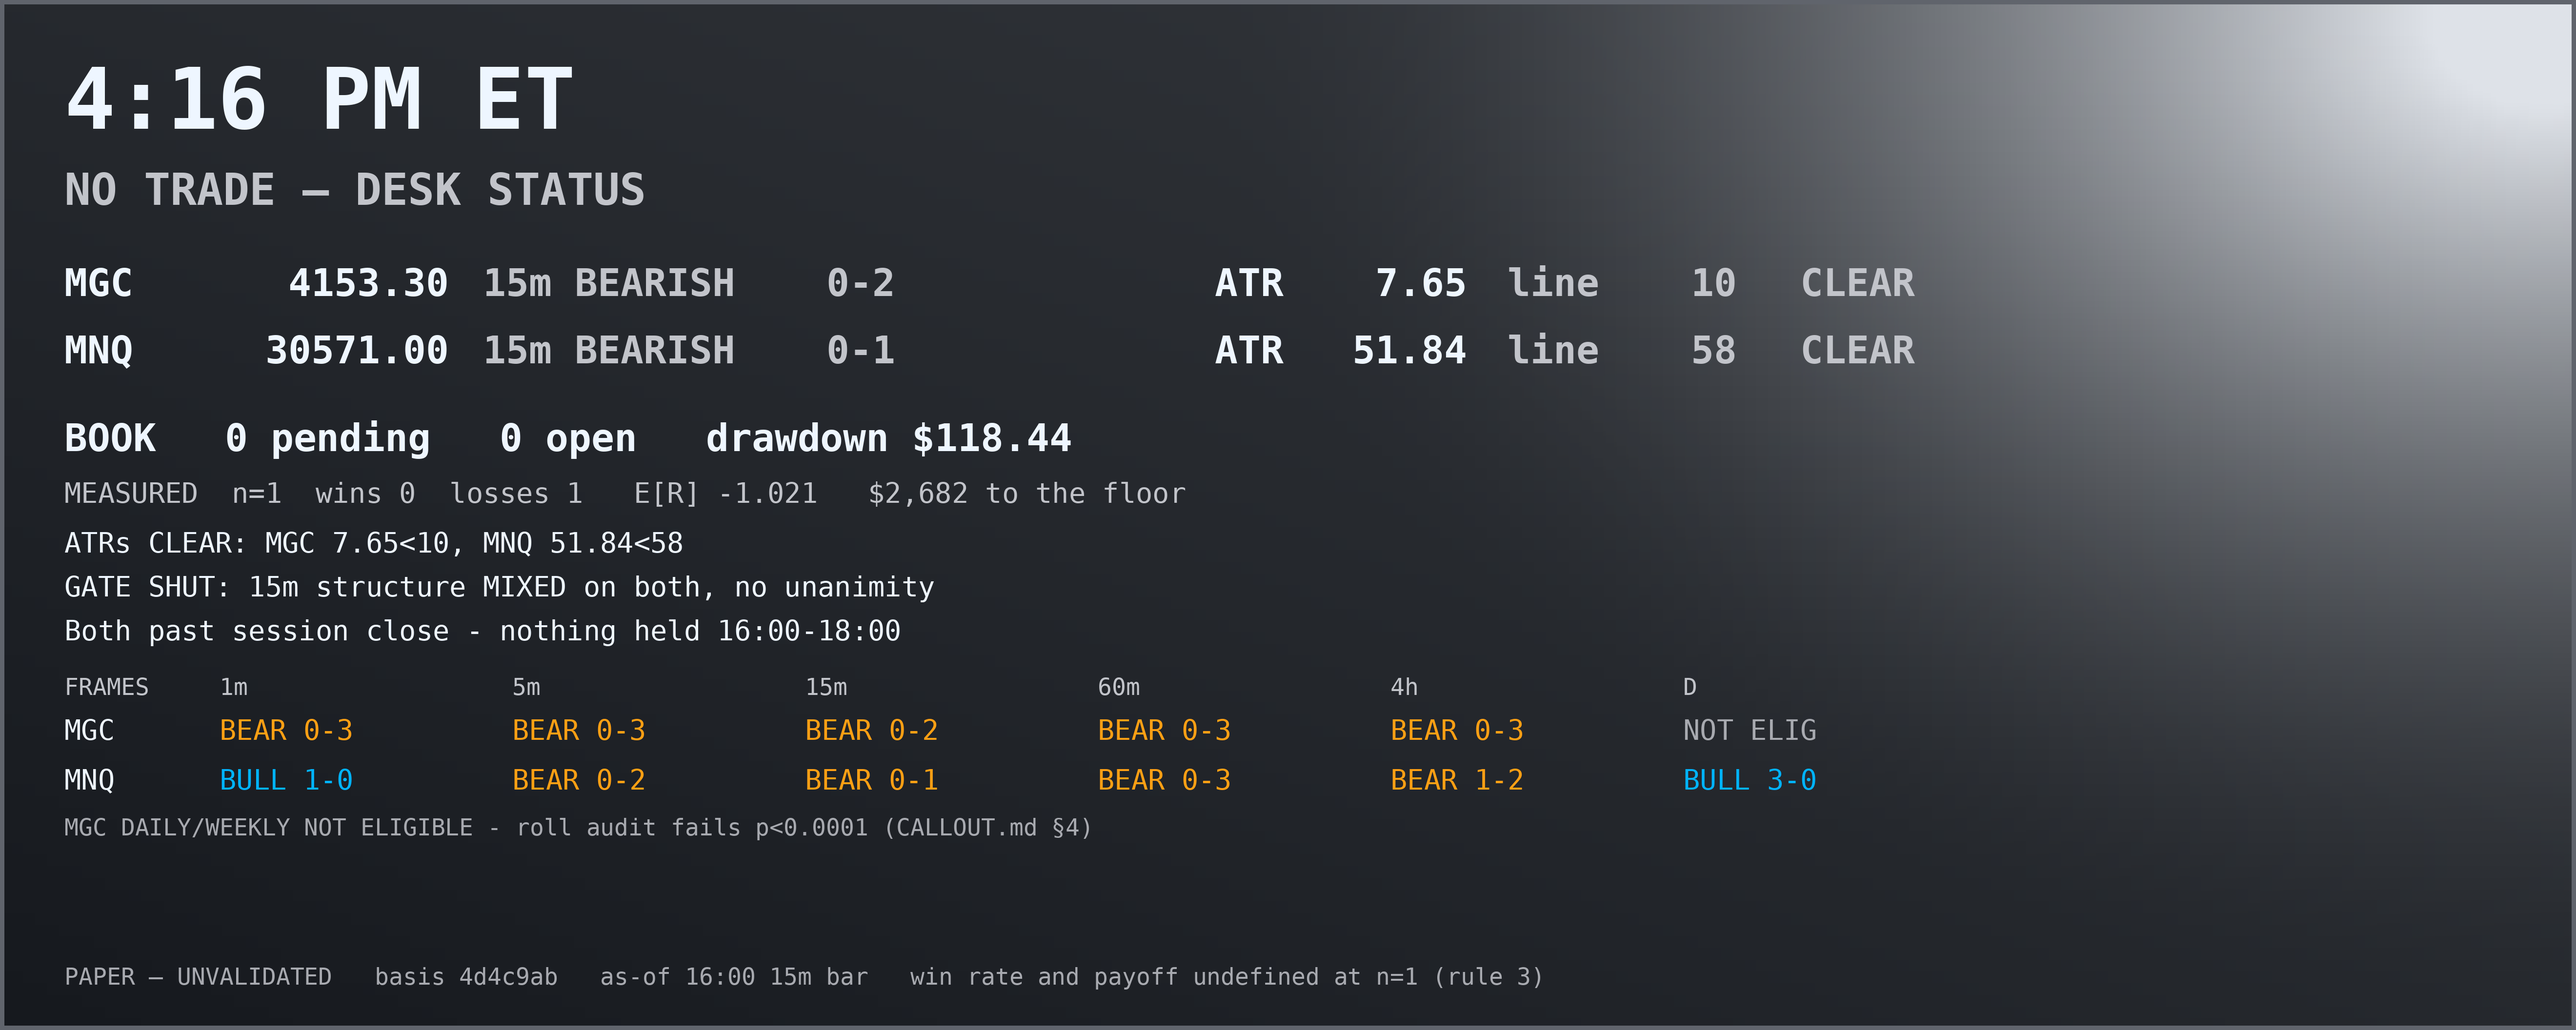
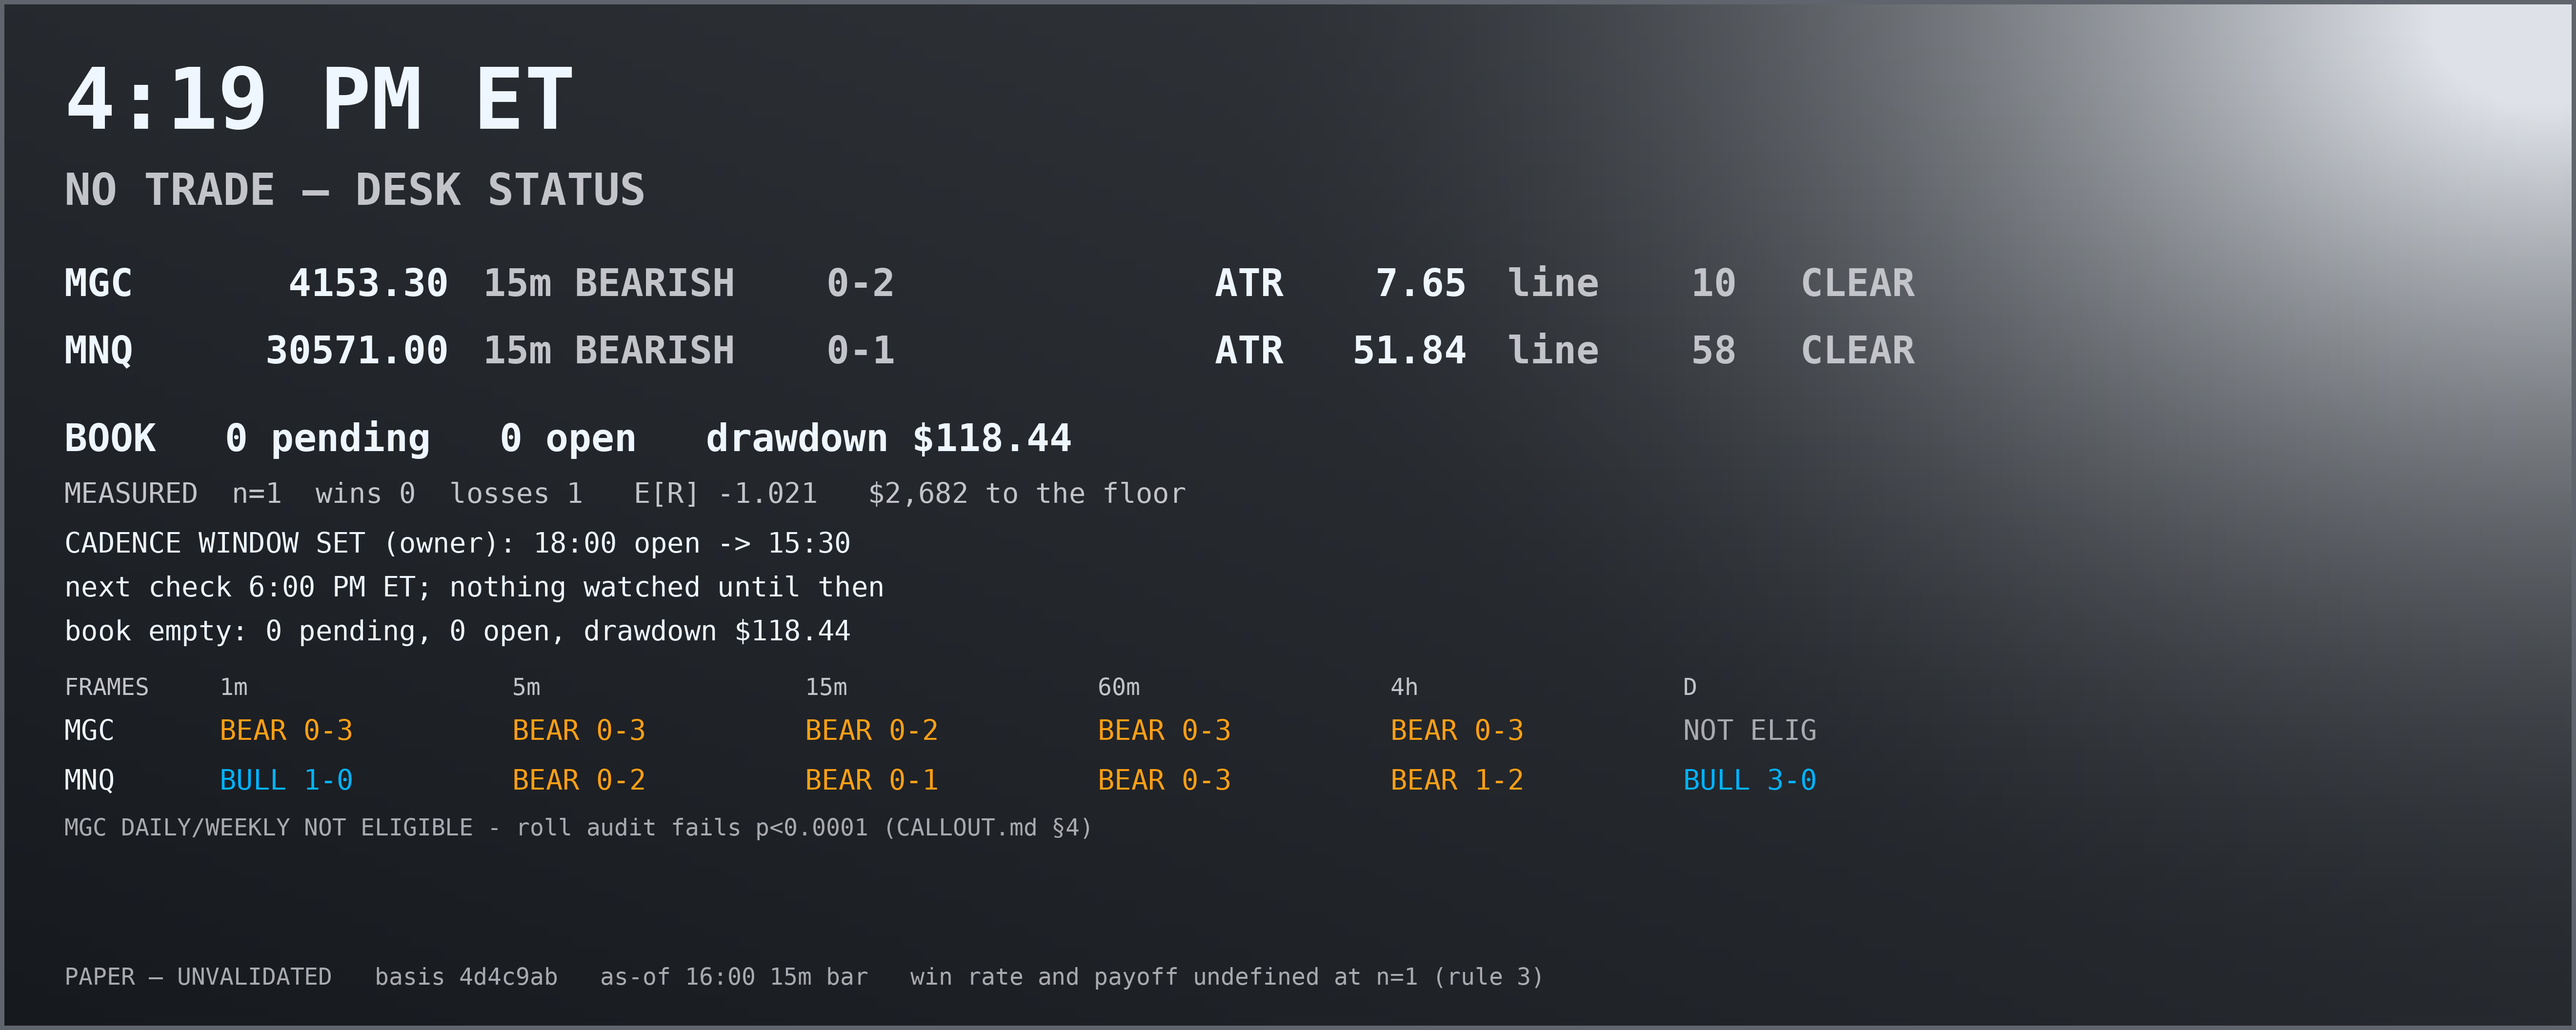
CALL desk: cadence given a window at the owner's instruction - every 2 min only from the 18:00 open to 15:30; three windowed cron jobs replace the all-day one, hourly backstop now checks the clock before running
Claude-Session: https://claude.ai/code/session_01EE6PFk7fGa2tM4KP6dpfWD

Changed region(s): [[0.0312, 0.5, 0.3438, 0.625], [0.0938, 0.0625, 0.125, 0.0938], [0.0625, 0.0938, 0.0938, 0.125]]

diff --git a/workspace/paper/CALL/CHECK_PROCEDURE.md b/workspace/paper/CALL/CHECK_PROCEDURE.md
@@ -881,3 +881,48 @@ not something added afterwards if there is time.
 
 **On the card.** When a stand-down is binding, the card carries what it has foreclosed so far.
 The owner should be able to see the price of the desk's caution without asking for it.
+
+---
+
+## THE CADENCE HAS A WINDOW. IT IS NOT ALL DAY.
+
+**Set by the account owner 2026-09-28 at 16:16 ET:** *"Lets do this you are only to run every 2
+minutes of when the futures opens to 30 minutes before close."*
+
+**The window is 18:00 ET → 15:30 ET.** The futures open is 18:00 ET (CALLOUT.md's session rule:
+18:00 → 16:00, nothing held across 16:00–18:00). Thirty minutes before the close is **15:30**.
+Outside that window the desk does not check.
+
+Three session cron jobs carry it, and together they are the whole cadence:
+
+| job | cron | covers |
+|---|---|---|
+| `4d5d148b` | `*/2 18-23 * * 0-4` | Sunday–Thursday evening, from the 18:00 open to midnight |
+| `94de14ed` | `*/2 0-14 * * 1-5` | Monday–Friday overnight and day, midnight to 14:58 |
+| `af67dea9` | `0-28/2 15 * * 1-5` | Monday–Friday 15:00–15:28, the last window of the day |
+
+Nothing fires between **15:30 and 18:00**, and nothing fires from Friday 15:30 to Sunday 18:00.
+
+**Why the day splits into three jobs and not one.** A single `*/2 * * * *` cannot express a window
+that wraps past midnight, and the owner's window does — it opens at 18:00 and closes at 15:30 the
+*next* day. The three jobs are one mechanism in three pieces, not three mechanisms; they never
+overlap, so they cannot double-send (N42/N45). Verify all three at every hourly.
+
+**The last firing of the day is 15:28**, and it is not an ordinary check. It says in one line that
+the cadence now stops until 18:00, states the closing book, and sends its card. Falling silent at
+15:30 without saying the window has closed would read exactly like the cron dying — which has
+already happened once today, at ~12:55, and cost 44 minutes.
+
+**A PENDING plan alive at 15:30 is unwatched until 18:00.** Say so on that last card. The desk
+cannot see a trigger, a fill or a stop during the gap, and `resolve.py` will only learn what
+happened when the cadence resumes.
+
+**Rule 5 covers most of the final window.** No intraday entry 15:00–16:00 (z −4.43, median
+−0.617R, replicated), so the 15:00–15:28 job will almost always be reporting status rather than
+calling. That is expected and is not a reason to skip it — the owner reads cards, and an empty
+book is a decision that still has to reach him.
+
+**The hourly backstop now checks the clock first.** Outside the window it does not run a full
+check and does not send a card: it lists the cron jobs, repairs any that died, and reports in one
+or two lines. The repair mechanism has to keep running even when the desk does not, because the
+jobs are session-only and die with the worker.

diff --git a/workspace/paper/CALL/DECISIONS.md b/workspace/paper/CALL/DECISIONS.md
@@ -56,6 +56,7 @@ the second is how a veto flatters itself and quoting only the first is how a tra
 | 14 | 15:17 | **Stand-down held on both symbols** — MGC ATR14 10.44 > 10, MNQ 68.98 > 58; rule 5 also binds to 16:00 | foreclosed since 13:00 ≤ **MGC $181 (1.51R) / MNQ $186 (1.55R)** — full favourable excursion, not a profit I would have taken | **$0 marginal** — no unanimous 15m bar printed since 13:00, so no setup I would have entered was refused | — |
 | 15 | 15:52 | **Held the stand-down through the whole 15:00-16:00 window** — rule 5 plus MGC ATR 10.17>10 and MNQ 69.77>58, across 30 consecutive 2-min checks | foreclosed ≤ **MGC $110 (0.92R) / MNQ $196 (1.63R)** on the short side; both symbols fell all hour and I took none of it | **$0 marginal** — structure stayed MIXED on both 15m frames for the entire window, so the gate never opened and the vetoes refused nothing the desk would have taken | — |
 | 16 | 16:00 | **Volatility stand-down LIFTED on both** — MGC ATR 10.17→8.19, MNQ 69.77→56.77 when the 12:15 outlier bar (MNQ TR 210.75) left the 14-bar window; rule 5 also expired | — | the veto that bound for 3 hours is off, and the desk **still** does not trade: the 15m gate is shut on MIXED structure, MGC is outside RTH (ended 13:30) and MNQ's session ends at 16:00 | the lift is a window artifact as much as a regime change — recent 15m TRs do average below the line (last 6: ~47 MNQ), so it is honest, but it arrived by an outlier ageing out, not by calm |
+| 17 | 16:16 | **Cadence given a window (owner)** — every 2 min only from the 18:00 open to 15:30, 30 minutes before the close; old `*/2 * * * *` job deleted, three windowed jobs armed, hourly backstop taught to check the clock first | the desk is now **blind 15:30–18:00 and all weekend**; a PENDING plan left alive into that gap is unwatched, and a trigger or stop inside it is only learned at 18:00 | ~75 checks a day that reported nothing tradeable — rule 5 vetoes 15:00–16:00 anyway, MGC is outside RTH after 13:30, and nothing may be held across 16:00–18:00, so the surrendered window was largely unusable | the gap is real and I will not pretend otherwise: it must be stated on the 15:28 card whenever a plan is live |
 
 ### What the tally actually says
 
